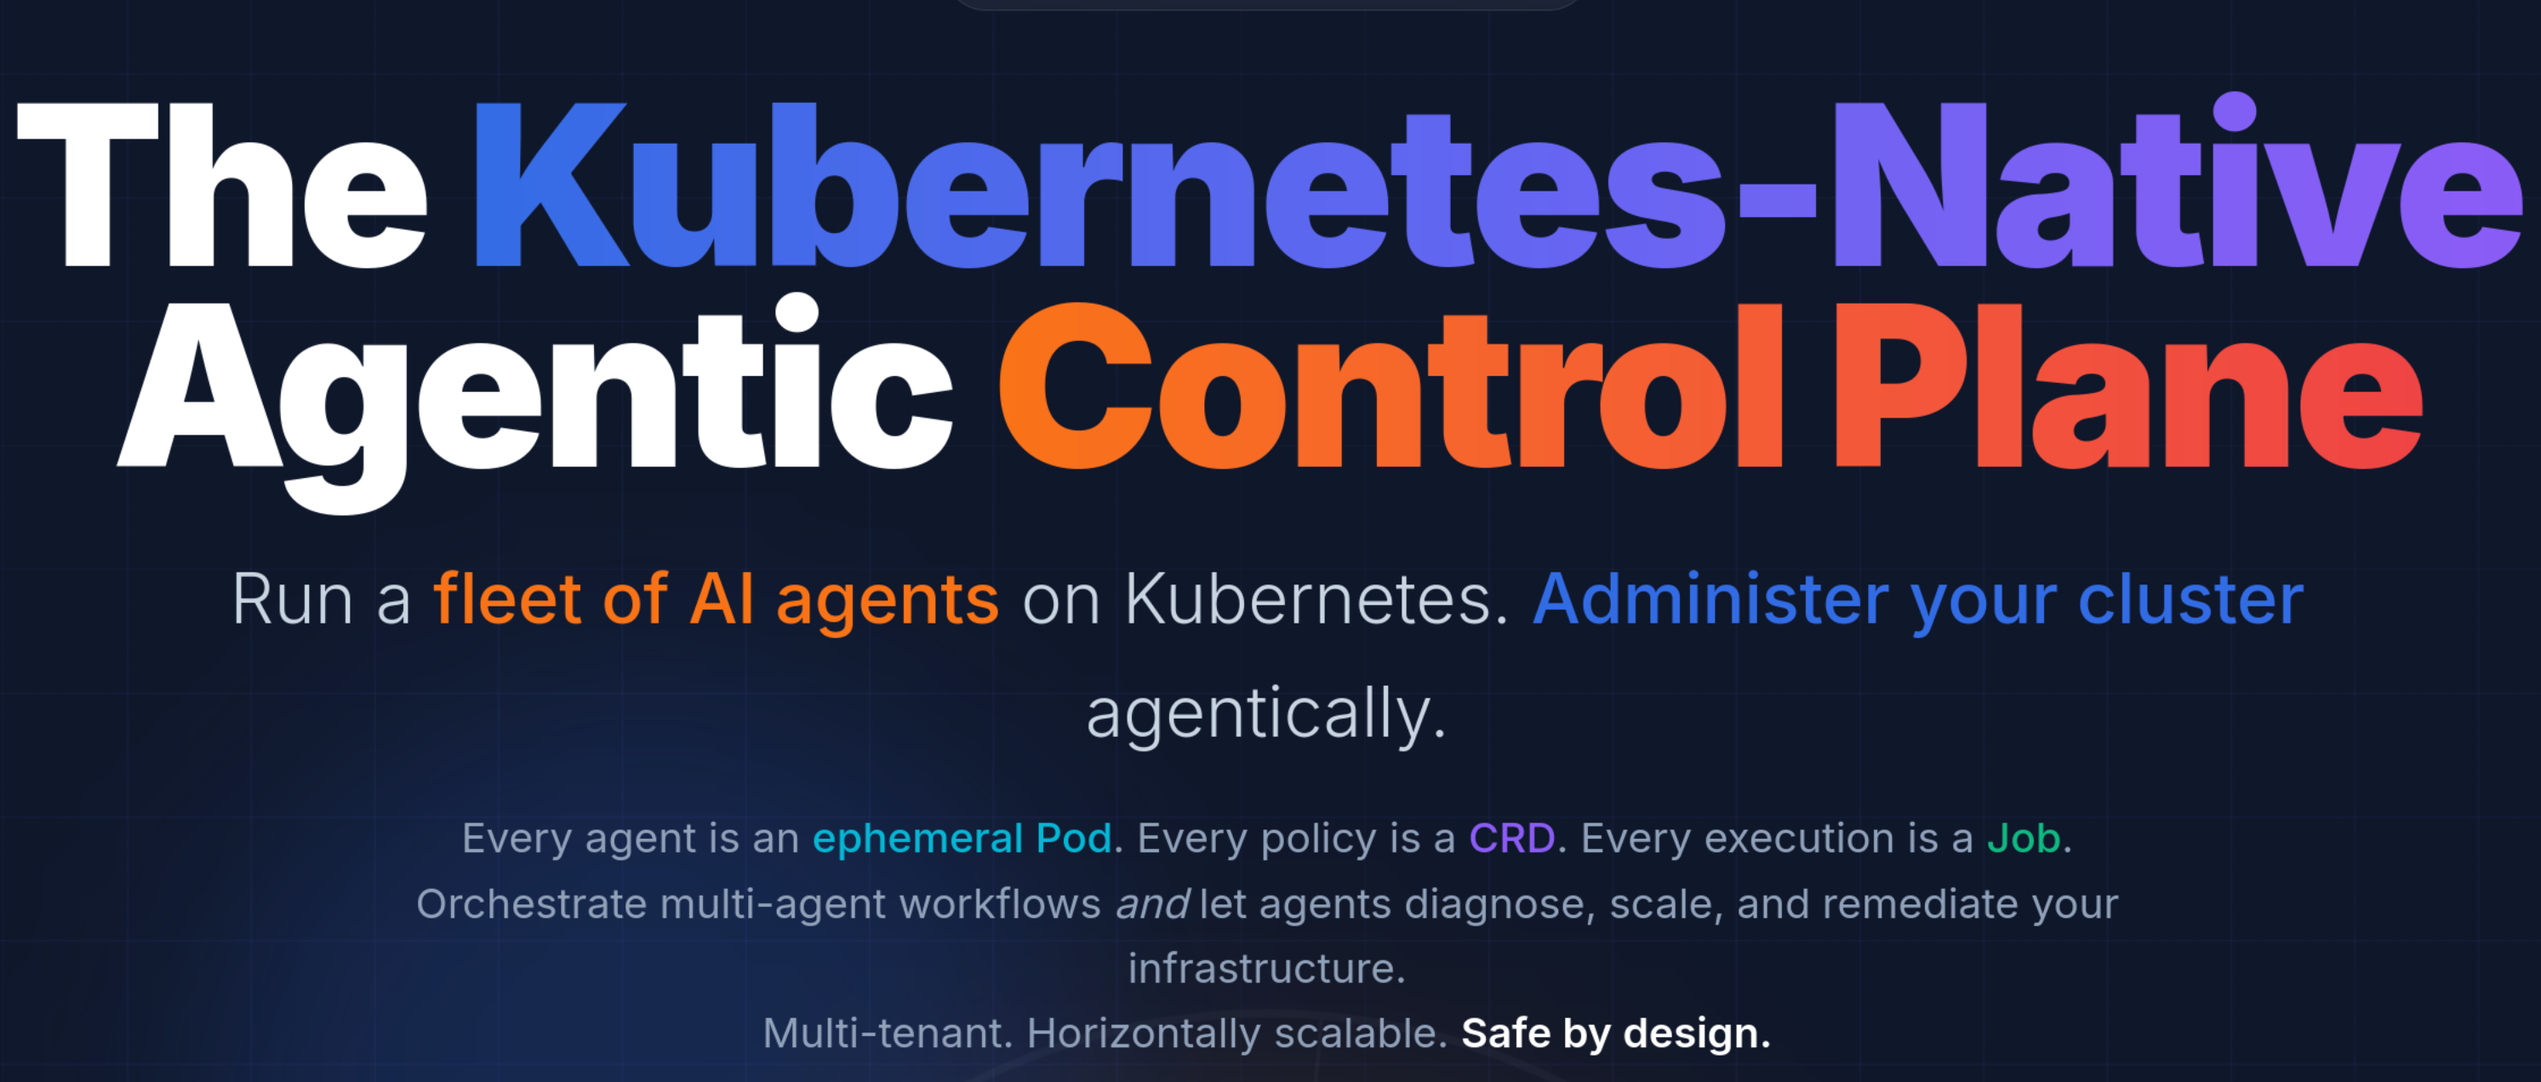
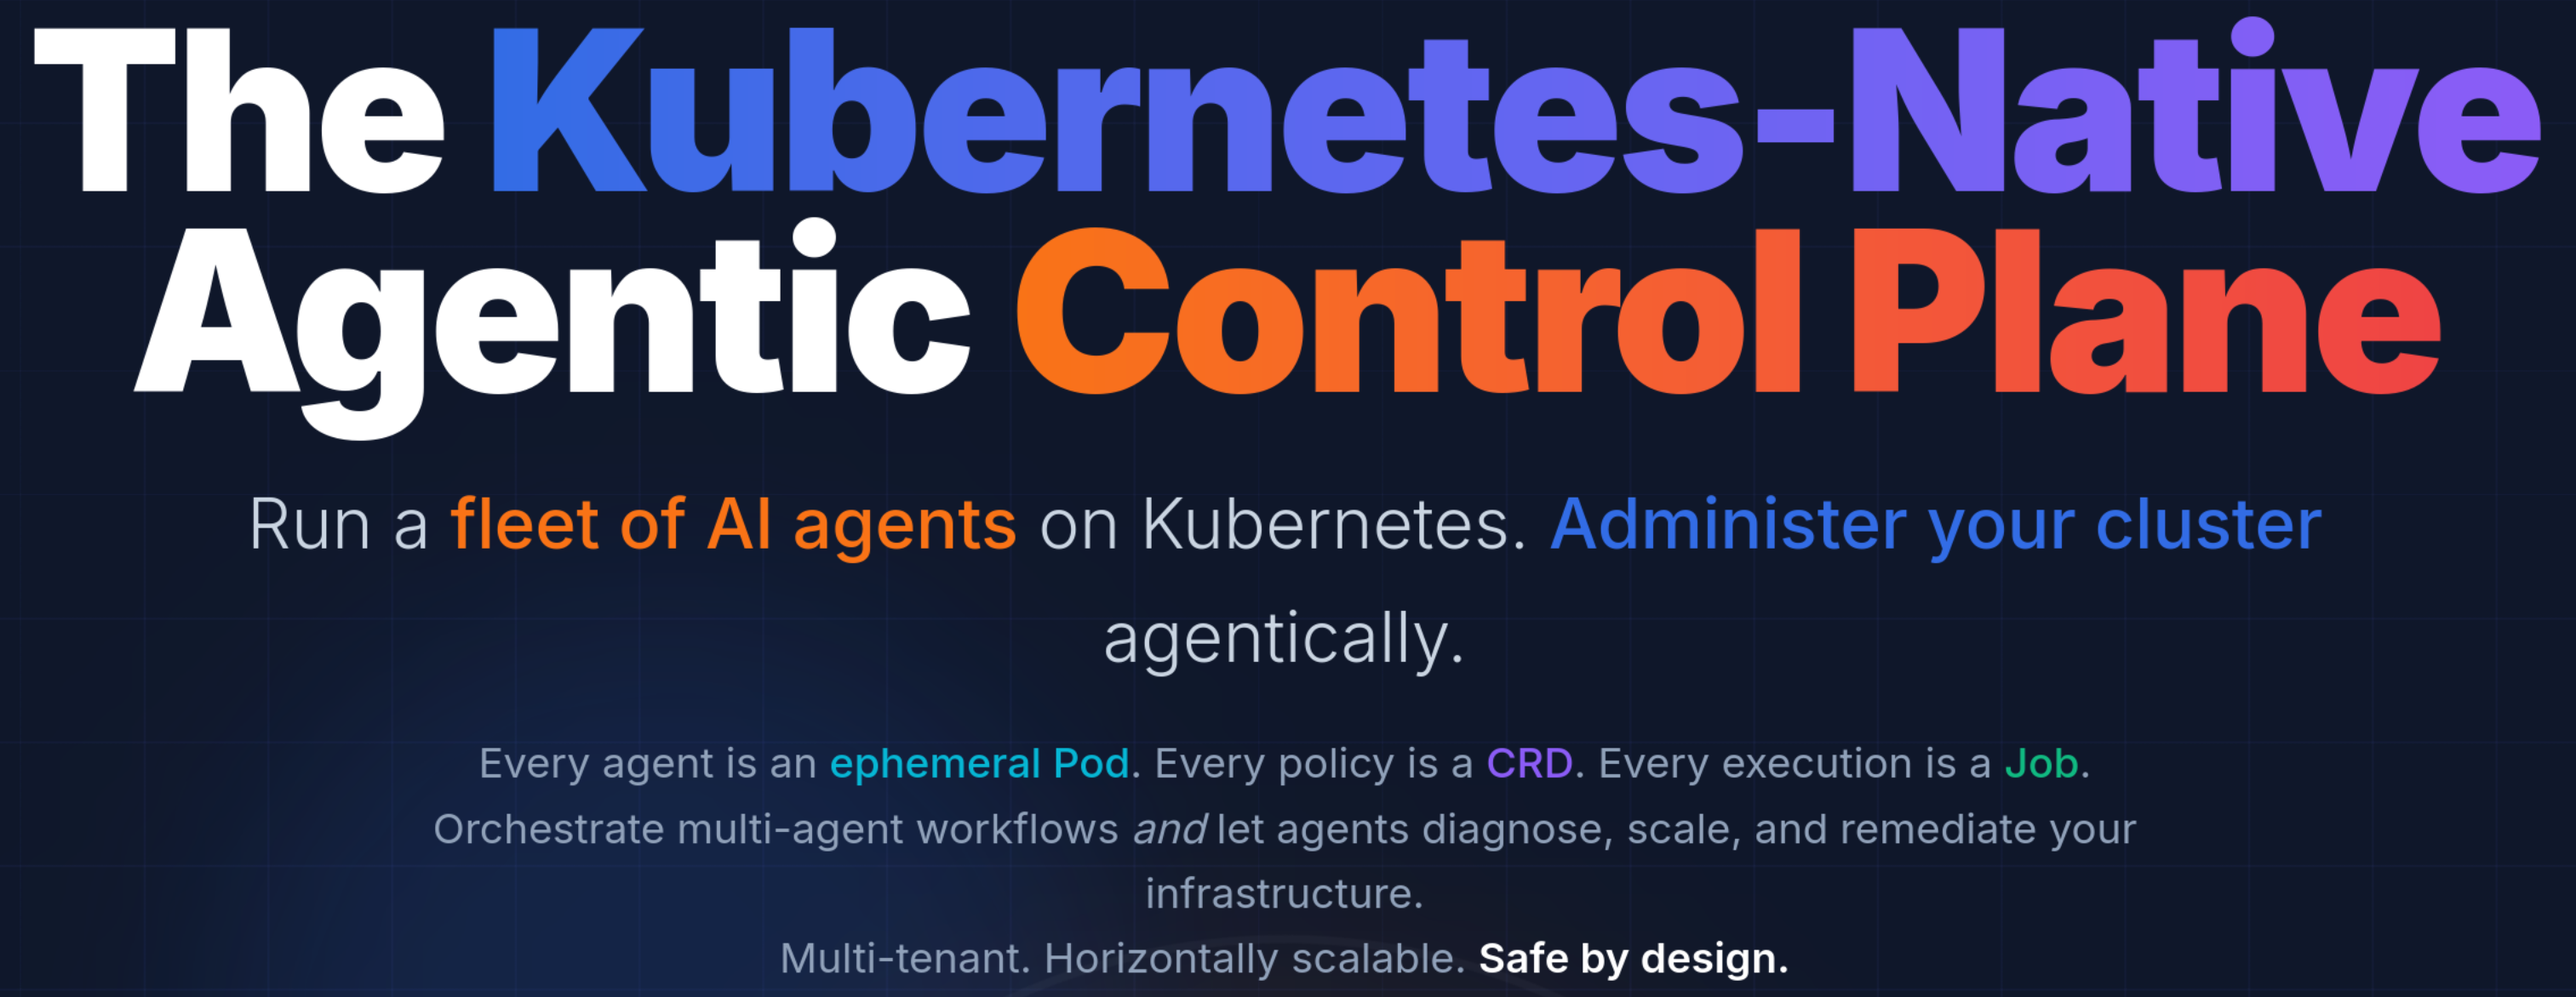
chore: updated

diff --git a/README.md b/README.md
@@ -1,6 +1,6 @@
 
 <p align="center">
-  <img src="header.png" alt="kubeclaw icon" width="600px;">
+  <img src="header.png" alt="kubeclaw icon" width="800px;">
 </p>
 
 <p align="center">
